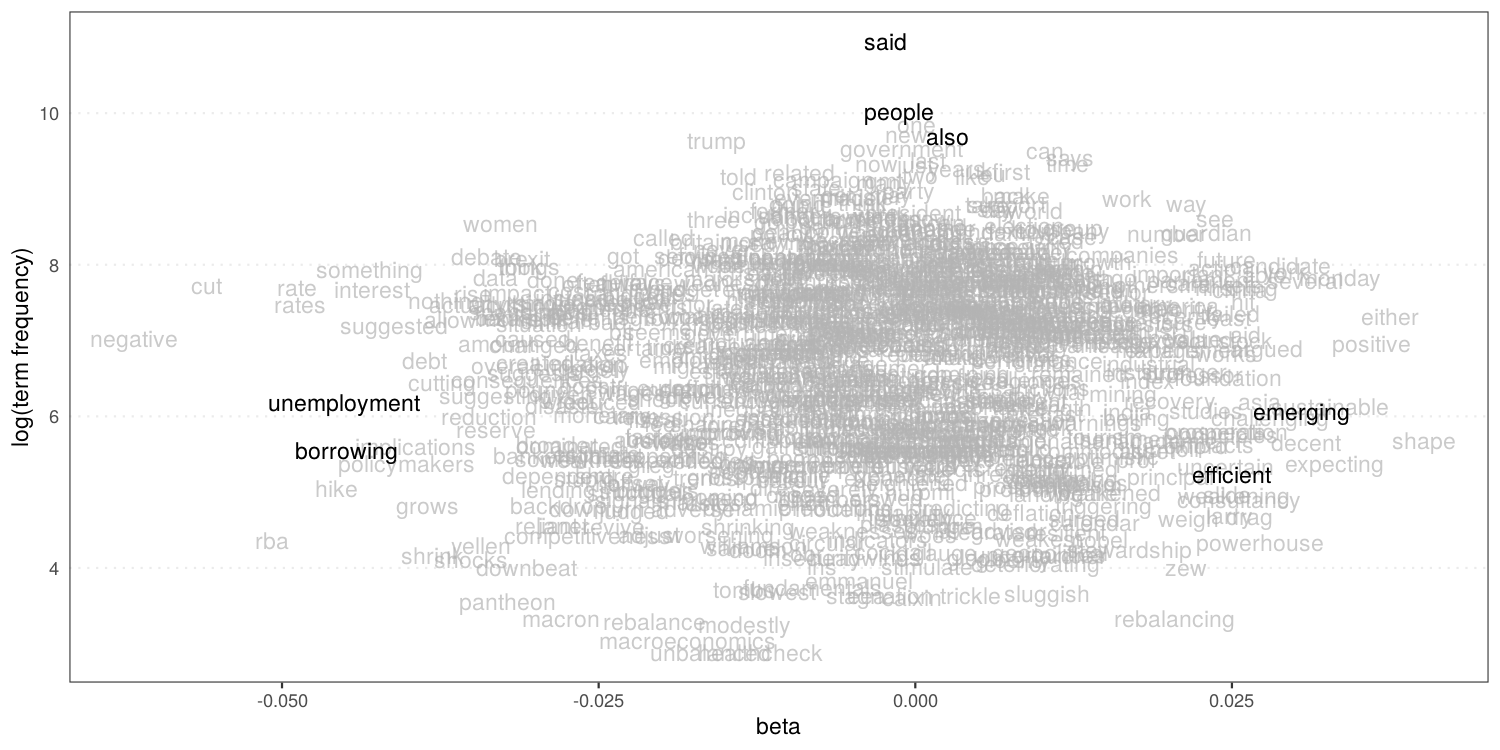
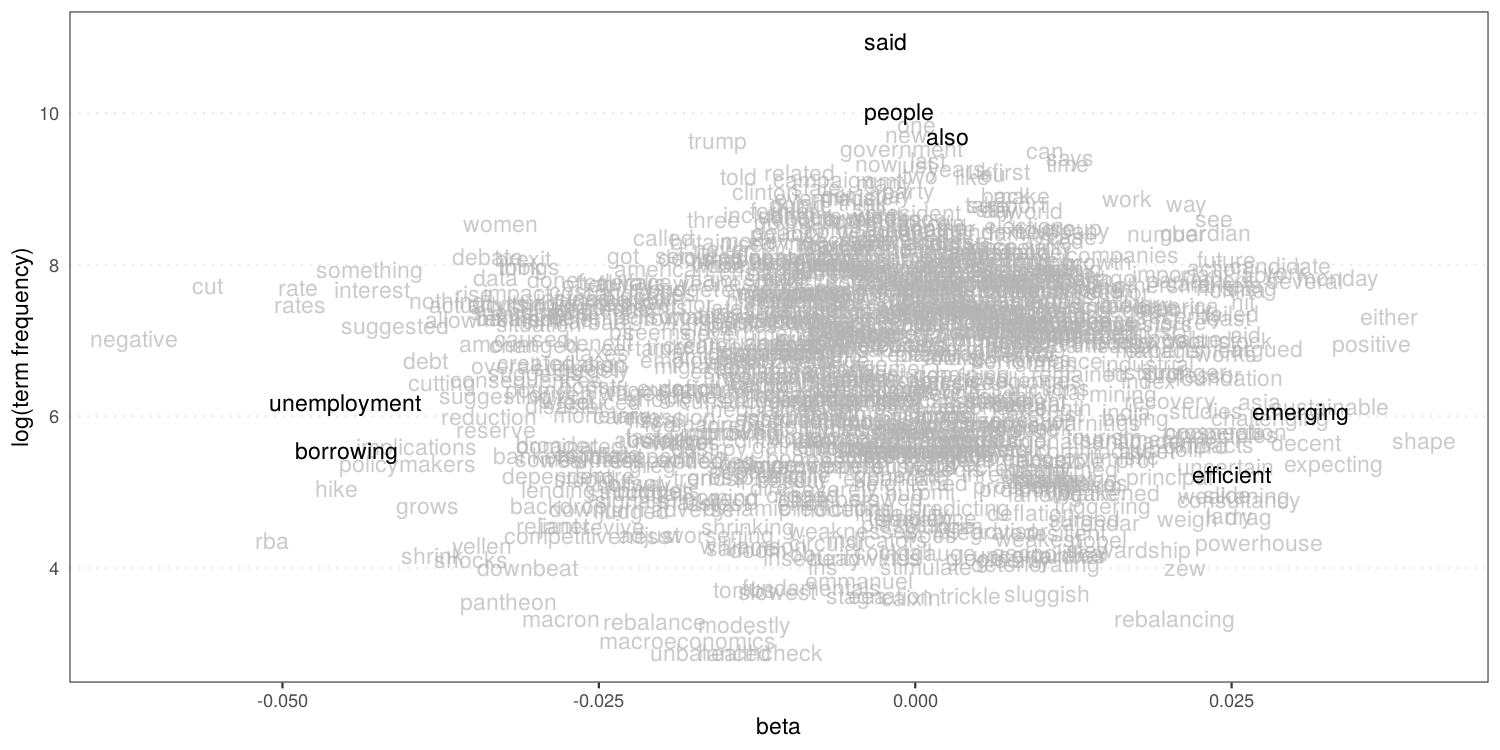
Update README

diff --git a/README.md b/README.md
@@ -65,7 +65,7 @@ corp <- readRDS("/home/kohei/Dropbox/Public/data_corpus_guardian2016-10k.rds")
 toks_sent <- corp %>% 
     corpus_reshape("sentences") %>% 
     tokens(remove_punct = TRUE) %>% 
-    tokens_remove(stopwords(), padding = TRUE)
+    tokens_remove(stopwords("en"), padding = TRUE)
 dfmt_sent <- toks_sent %>% 
     dfm(remove = "") %>% 
     dfm_select("^\\p{L}+$", valuetype = "regex", min_nchar = 2) %>% 
@@ -73,10 +73,10 @@ dfmt_sent <- toks_sent %>%
 
 eco <- char_keyness(toks_sent, "econom*", p = 0.05)
 lss <- textmodel_lss(dfmt_sent, as.seedwords(data_dictionary_sentiment),
-                     feature = eco, cache = TRUE, k = 300)
+                     terms = eco, k = 300, cache = TRUE)
 ```
 
-    ## Reading cache file: lss_cache/svds_34e08f32419c9eca.RDS
+    ## Reading cache file: lss_cache/svds_365ae974a33cb811.RDS
 
 ### Sentiment seed words
 
@@ -103,26 +103,26 @@ head(coef(lss), 20) # most positive words
 ```
 
     ##       shape      either    positive      monday   expecting sustainable 
-    ##  0.04017038  0.03745197  0.03602651  0.03352895  0.03307553  0.03277666 
+    ##  0.04020799  0.03744890  0.03601425  0.03336808  0.03307447  0.03276316 
     ##      decent     several    emerging        york   candidate challenging 
-    ##  0.03084942  0.03080686  0.03046641  0.02925947  0.02883487  0.02801757 
+    ##  0.03084397  0.03076411  0.03047059  0.02929349  0.02883675  0.02800941 
     ##      argued        able  powerhouse        asia       thing        drag 
-    ##  0.02770138  0.02753339  0.02724199  0.02715581  0.02663417  0.02638054 
-    ##       stock         aid 
-    ##  0.02608997  0.02603547
+    ##  0.02774260  0.02751587  0.02719956  0.02716442  0.02661455  0.02635362 
+    ##         aid       stock 
+    ##  0.02610316  0.02607838
 
 ``` r
 tail(coef(lss), 20) # most negative words
 ```
 
     ##     actually        allow      nothing      cutting       shrink        grows 
-    ##  -0.03527976  -0.03671954  -0.03702909  -0.03735588  -0.03815107  -0.03851795 
+    ##  -0.03531395  -0.03665382  -0.03701008  -0.03737425  -0.03813055  -0.03854666 
     ##         debt implications policymakers    suggested     interest    something 
-    ##  -0.03872739  -0.03942620  -0.04015681  -0.04115879  -0.04288522  -0.04311322 
+    ##  -0.03872572  -0.03944662  -0.04014394  -0.04113985  -0.04290556  -0.04311326 
     ##    borrowing unemployment         hike        rates         rate          rba 
-    ##  -0.04490576  -0.04508967  -0.04572553  -0.04857283  -0.04878567  -0.05076572 
+    ##  -0.04490317  -0.04505639  -0.04570329  -0.04859105  -0.04875628  -0.05079627 
     ##          cut     negative 
-    ##  -0.05599481  -0.06169430
+    ##  -0.05596225  -0.06174176
 
 This plot shows that frequent words (“said”, “people”, “also”) are
 neutral while less frequent words such as “borrowing”, “unemployment”,
